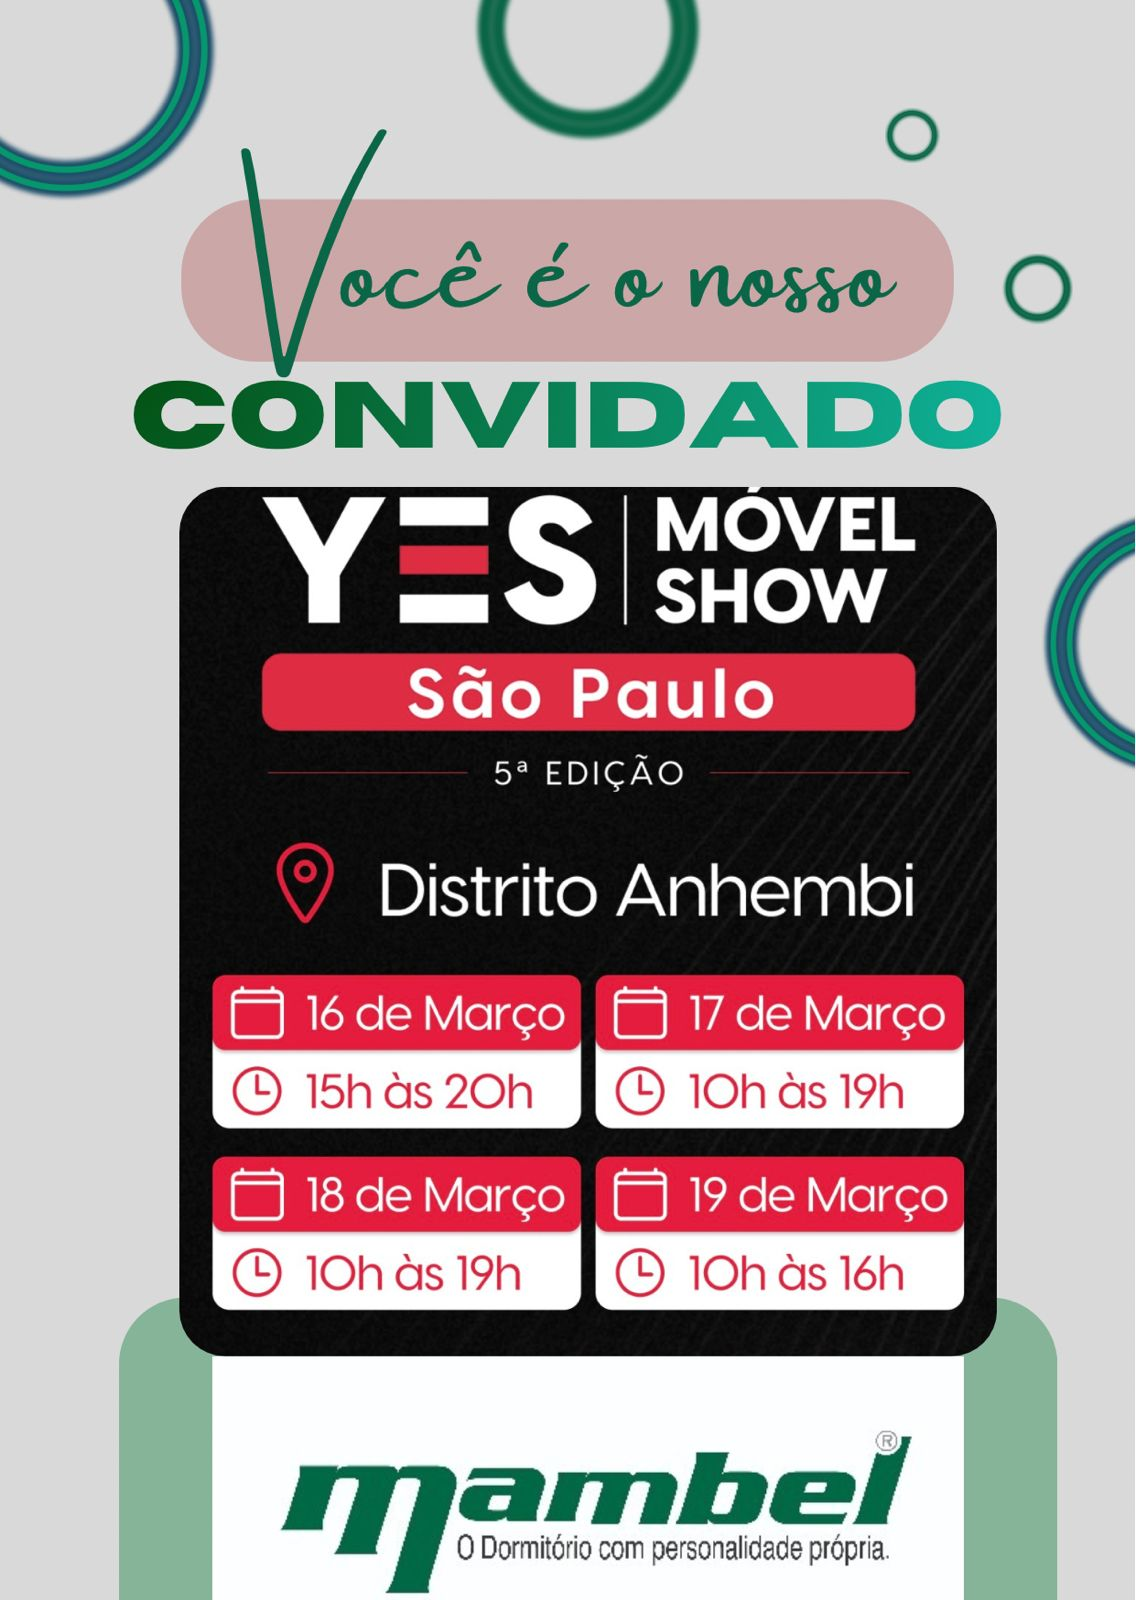
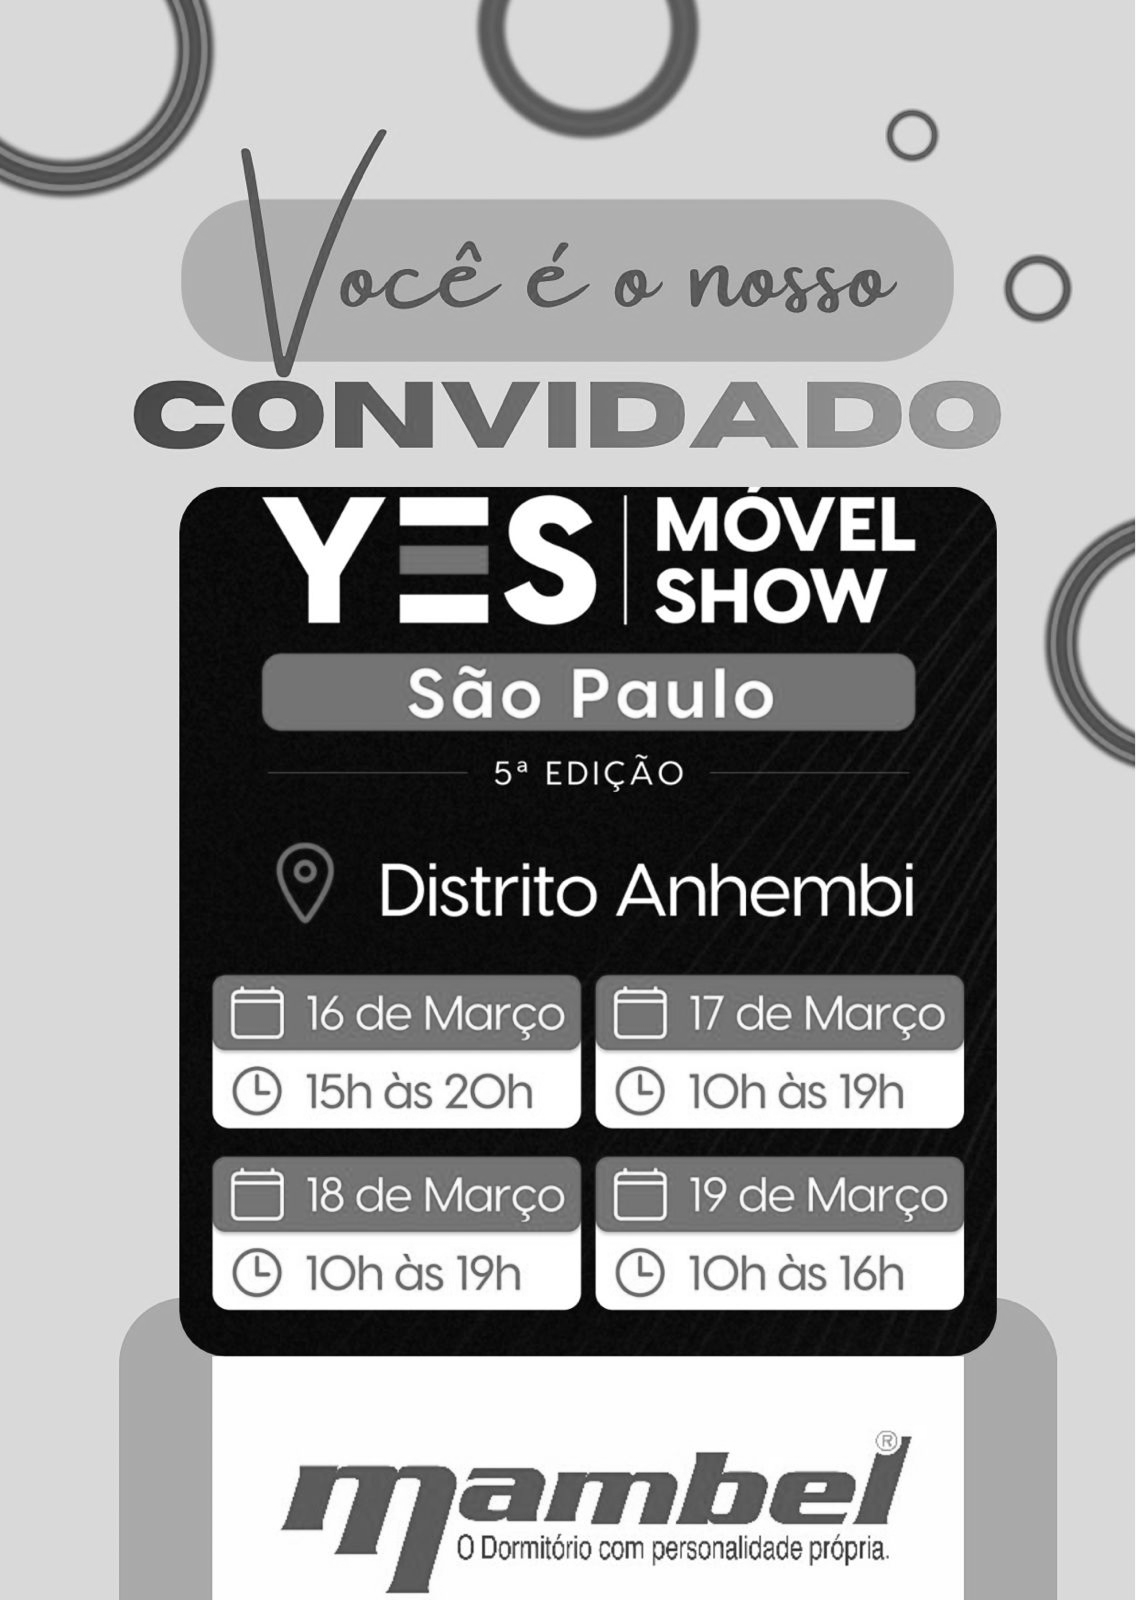
atualizações na aba de eventos e contato

diff --git a/contato.html b/contato.html
@@ -237,7 +237,7 @@
                             class="fa-regular fa-circle-user fa-xl"
                             style="color: #6f7b65"
                           ></i>
-                          <p class="text-base">Maria</p>
+                          <p class="text-base">Silvia</p>
                         </div>
 
                         <div class="flex gap-2 items-center">

diff --git a/eventos.html b/eventos.html
@@ -100,7 +100,7 @@
           />
           <img
             class="w-full max-w-lg rounded-xl shadow-xl"
-            src="./imagens/Eventos_futuros.jpg"
+            src="./imagens/Eventos_movel_sul.jpeg"
             alt="Eventos"
           />
         </div>
